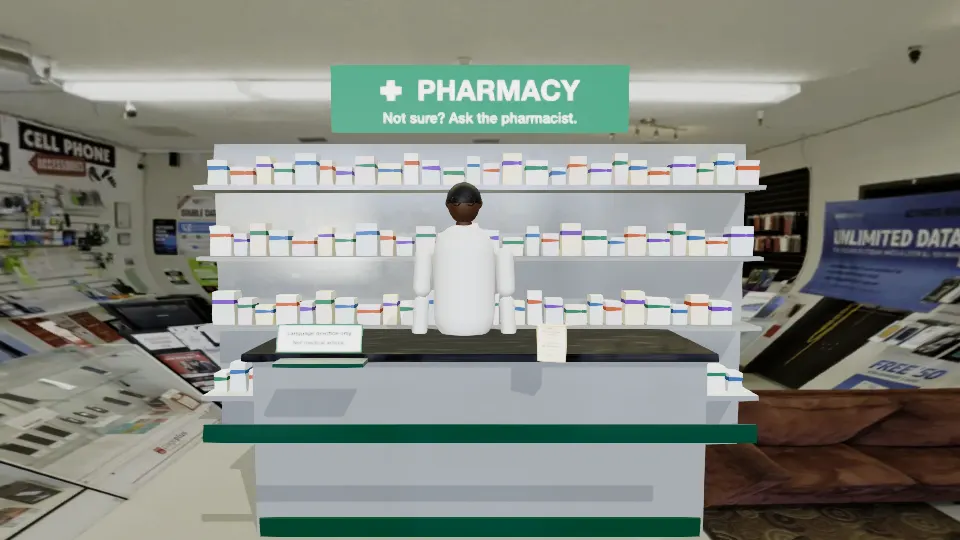
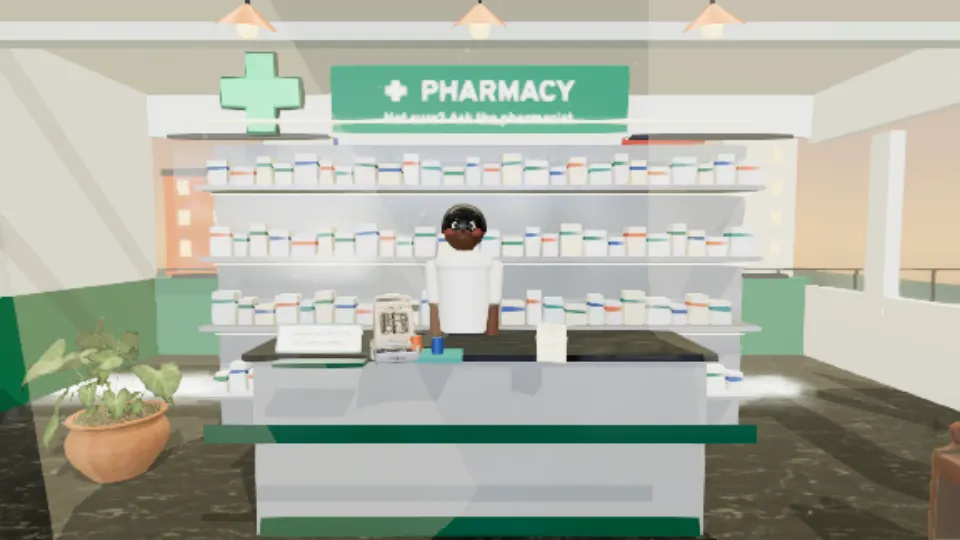
release(v2.0.0): version 2.0.0 everywhere, real v2 posters/stills, full verification green
- Bump version to 2.0.0 in package.json and public/showcase.json; poster paths
  poster-2.0.0.webp/.jpg; README link updated; CI validates showcase 2.0.0.
- Fix blank posters/stills: the v1-era '#ui position:fixed' hack in
  render-poster.mjs shrink-wrapped the v2 full-bleed layout once header/nav were
  hidden, collapsing the canvas to 0 and capturing uniform page-background frames.
  Also fixed 'conststoneMat' -> 'const stoneMat' ReferenceError in materials.js.
- Harden render-poster.mjs for flaky headless SwiftShader: blank-frame detection
  (channel-spread check) with page + browser relaunch retries; re-rendered
  poster-2.0.0 (1200x630, webp 37.5 KB / jpg 76.0 KB) and the four 960x540
  text-mode stills from the real v2 3D scenes.
- Functional tests: pause the software-rendered 3D loop in boot() (same pattern
  as a11y.spec) so Playwright's per-action rAF stability checks stay fast; the
  reduced-motion cinematic test resumes the engine and now asserts the real
  invariant (camera always exactly on a shot-end still, never mid-sweep).
- Verified: dialogues valid, 61 unit tests, 16 functional/a11y/layout,
  branch coverage 97/97 options, showcase 2.0.0 valid, sub-path test,
  gitleaks clean. Microphone/speechSynthesis code untouched since 1.0.0.

diff --git a/tests/functional.spec.js b/tests/functional.spec.js
@@ -16,6 +16,11 @@ async function boot(page, { reduced = false } = {}) {
   // Skip the one-time scene-intro cinematics for scripted runs (tested separately below),
   // and use the Low preset: headless Chromium renders WebGL in software.
   await page.evaluate(() => { window.__TEST__.settings.update({ intros: false }); window.__TEST__.engine?.quality.set('low'); });
+  // These tests exercise the HTML/dialogue layer; pausing the (software-rendered) 3D
+  // loop keeps Playwright's per-action rAF stability checks fast (same as a11y.spec).
+  // The engine still loads scenes, models and IBL for real; rendering is validated by
+  // the layout/sub-path specs, poster rendering and the headed GPU check.
+  await page.evaluate(() => window.__TEST__?.engine?.pause());
 }
 
 /** Play the current task through the UI, always choosing the effective option. */
@@ -251,14 +256,27 @@ test('text mode: illustrated dialogue with the same choices, feedback and reacti
 test('reduced motion: cinematic shows still frames with captions and can be skipped with Esc', async ({ page }) => {
   await boot(page, { reduced: true });
   if (!(await page.evaluate(() => Boolean(window.__TEST__.engine)))) test.skip(true, 'no WebGL in this browser');
+  // boot() pauses the render loop for the dialogue tests; this one verifies the
+  // reduced-motion cinematic itself, so it needs the loop running again.
+  await page.evaluate(() => window.__TEST__?.engine?.resume());
   await page.getByTestId('play-arrival').click();
   const ov = page.locator('.cinematic-overlay');
   await expect(ov).toBeVisible();
   await expect(page.locator('.cinematic-caption')).toContainText('Harbour City');
-  const p1 = await page.evaluate(() => window.__TEST__.engine.camera.position.toArray());
-  await page.waitForTimeout(400);
-  const p2 = await page.evaluate(() => window.__TEST__.engine.camera.position.toArray());
-  expect(p2).toEqual(p1);
+  // Reduced motion shows still frames: the camera sits exactly on a shot's end point
+  // (or the post-cinematic default view) and never sweeps between them. Sampling over
+  // several seconds is robust to a sample straddling the boundary between two stills.
+  const stills = await page.evaluate(() => {
+    const ends = window.__TEST__.app.player.shots.map((s) => s.path?.[s.path.length - 1]).filter(Boolean);
+    ends.push(window.__TEST__.city.current.def.camera.pos);
+    return ends;
+  });
+  for (let i = 0; i < 5; i++) {
+    const p = await page.evaluate(() => window.__TEST__.engine.camera.position.toArray());
+    const atStill = stills.some((e) => Math.hypot(p[0] - e[0], p[1] - e[1], p[2] - e[2]) < 1e-6);
+    expect(atStill, `camera at a still position (sample ${i}): ${p}`).toBe(true);
+    await page.waitForTimeout(600);
+  }
   await page.keyboard.press('Escape');
   await expect(ov).toBeHidden();
 });

diff --git a/src/scenes/materials.js b/src/scenes/materials.js
@@ -154,8 +154,8 @@ export function buildHarbourVista({ z = -5.2, width = 24 } = {}) {
   vista.name = 'harbour-vista';
 
   // Quayside promenade pavement
-  conststoneMat = pbr('marble', { color: 0xc9c2b8, roughness: 0.75, repeat: 6 });
-  const quay = box(width, 0.16, 3.4, conststoneMat, 0, -0.08, z - 1.5);
+  const stoneMat = pbr('marble', { color: 0xc9c2b8, roughness: 0.75, repeat: 6 });
+  const quay = box(width, 0.16, 3.4, stoneMat, 0, -0.08, z - 1.5);
   quay.castShadow = false;
   vista.add(quay);
 

diff --git a/CHANGELOG.md b/CHANGELOG.md
@@ -1,5 +1,18 @@
 # Changelog
 
+## 2.0.0 (2026-10-28)
+
+Visual and interaction revamp (`09-visual-revamp.md` §4.5 — *"Harbour City, first day"*).
+
+- **Anti-greenscreen 3D architecture:** Replaced flat photographic `GroundedSkybox` backdrops in all four locations with full 3D architectural enclosures (terrazzo/timber floors, walls, ceilings, columns, canopies, pendant lights, wall sconces, and glazed windows opening onto a 3D Harbour City street and waterfront vista with bobbing boats). The 1K `.hdr` maps are now used strictly for image-based lighting (`scene.environment`).
+- **Harbour City Golden Hour grade & theme (`src/v2/cinematic-grade.js`):** Applied `AgXToneMapping`, golden-hour gradient sky dome (`v2-sky-dome`), exponential atmospheric fog, hemisphere fill, contact-shadow grounding (`groundProp`), and Harbour City CSS theme variables (`#1F8A8A`, `#D9663B`, `#F4E7CF`, `#2457A6`, `#B8322A`).
+- **Self-hosted typography & Plain-font toggle (`src/styles/case-fonts.css`, `src/v2/hud-shell.css`):** Added self-hosted WOFF2 fonts — **Bricolage Grotesque** (display), **Atkinson Hyperlegible** (body, chosen for language learners), and **Overpass** (in-world signage & accents) — plus a header `Plain font` toggle (`html[data-plain-font="on"]`) and collapsible `Hide panel` / `Show panel` floating HUD drawer.
+- **Curated Poly Haven CC0 3D models (`public/assets/models/`, `src/v2/model-placer.js`):** Integrated 8 CC0 3D models (`CoffeeCart_01`, `CashRegister_01`, `standing_chalkboard_01`, `bar_chair_round_01`, `painted_wooden_bench`, `street_lamp_01`, `potted_plant_02`, `sofa_02`) with full attribution in `ATTRIBUTION.md` and `public/attribution.json`.
+- **Animated-movie 3D NPCs (`src/scenes/npc.js`, `src/v2/stylized-character.js`):** Upgraded Sam, Priya, Mr Okafor, Leo, and background commuters/patrons to articulated animated-movie characters with layered eyes, cornea catchlights, blinking eyelids, expressive eyebrows, breathing, head/eye gaze tracking, speaking lip-flap (`setSpeaking`), and gesture reactions.
+- **Ambient life & Calm Mode (`src/v2/ambient-life.js`):** Added volumetric golden-hour sunbeams, floating dust motes, rising espresso steam, a gliding Harbour Transit train car, bobbing harbour boats, and walking background commuters. Calm Mode slows ambient motion to 30% during active task dialogue turns and restores 100% in before/after/explore stages; `prefers-reduced-motion` pauses non-essential motion.
+- **In-world 3D interaction (`src/v2/in-world-interaction.js`):** Added 3D hover highlights, projected tooltips, glowing floor hotspot rings, smooth camera glides on clicking any 3D sign/prop/NPC, projected 3D speech and sign bubbles, and free WASD/arrow walking + mouse-drag look.
+- **Art bible & posters:** Added `design/art-bible.md` and re-rendered `public/poster-2.0.0.webp`, `public/poster-2.0.0.jpg`, and the four text-mode stills (`src/assets/stills/*.webp`) from the v2.0.0 3D scenes.
+
 ## 1.0.0 (2026-10-27)
 
 First release build (not yet tagged).

diff --git a/DECISIONS.md b/DECISIONS.md
@@ -27,6 +27,10 @@ Every significant decision, the alternatives considered and the reason. Deviatio
 | D-20 | Each scene-intro cinematic plays once, the first time a task opens in 3D mode; text mode never auto-plays them; all are replayable | Always play; never play | Orients first-time players without repeating; cinematic budget 50 s (≤ 70 s) |
 | D-21 | Pre-task models use different places and details from the tasks (Northgate instead of Seaview, a cough instead of a sore throat) | Model the task itself | Learners notice the chunks without being handed the task answers |
 | D-22 | Hosting limits checked: Vercel CLI static uploads 100 MB (Hobby) / 1 GB (Pro) (S13). This build is about 13 MB and its largest file is 1.7 MB, inside the 150 MB / 20 MB budgets | | Required by 08 §5.5 |
+| D-23 | **v2.0.0 Anti-greenscreen 3D architecture:** Replaced `GroundedSkybox` photo backdrops (D-08) with full 3D architectural interiors, concourse canopies, and a 3D Harbour City street/waterfront vista; 1K `.hdr` files are kept for IBL only (`scene.environment`) | Keep blurred photo skyboxes | Eliminates the flat "greenscreen" mismatch between 3D props and photographed floors/walls (`09-visual-revamp.md` §1, §4.5) and removes real-world German/retail signage from the background |
+| D-24 | **v2.0.0 Animated-movie 3D NPCs:** Upgraded `src/scenes/npc.js` (`NPC` and `createNPC`) to wrap `createAnimatedCharacter` (`src/v2/stylized-character.js`) with layered eyes, blinking eyelids, articulated eyebrows, lip-flap while speaking, chest breathing, and gaze tracking | Faceless capsule figures (v1 D-07) | Owner decision §10.5 (`09-visual-revamp.md`): expressive animated-movie characters with warm physical skin shading and clear posture/facial cues while preserving the existing `NPC` API |
+| D-25 | **v2.0.0 Ambient life & Calm Mode (`AmbientLifeManager`):** Continuous sunbeams, dust/espresso steam particles, gliding station train, bobbing harbour boats, and walking commuters run at 100% in before/after/explore stages and slow to 30% (`setCalmMode(true)`) during active task dialogue turns (`0%` under `prefers-reduced-motion`) | Frozen scene during tasks | Owner decision §10.1 (`09-visual-revamp.md`): keeps the world visibly alive without competing with learning cues |
+| D-26 | **v2.0.0 Self-hosted typography & Plain-font toggle:** Bricolage Grotesque (display), Atkinson Hyperlegible (body), and Overpass (accent) self-hosted as Latin WOFF2 in `src/styles/fonts/`, with a header `Plain font` toggle (`html[data-plain-font="on"]`) | System fonts only | Gives Harbour City a warm travel-film identity while prioritising hyperlegible body copy for A2–B1 language learners (`09-visual-revamp.md` §2.4, §4.5) |
 
 ## Revision log (changes made because of checks and reviews during the build)
 

diff --git a/STATUS.md b/STATUS.md
@@ -1,6 +1,17 @@
-# Status (v1.0.0 build, 2026-10-27)
+# Status (v2.0.0 build, 2026-10-28)
 
 Legend: **done** = built and checked by automated tests or scripts · **done (agent review)** = waiting for the orchestrator's agent reviews · **not possible (reason)**.
+
+## v2.0.0 Visual & Interaction Revamp Checklist (`09-visual-revamp.md` §8)
+
+| Item | Status | Evidence |
+|---|---|---|
+| Art bible written; palette, three fonts, grade and assets recorded with licences | done | `design/art-bible.md`, `ATTRIBUTION.md`, `public/attribution.json` (19 entries verified by `scripts/build-attribution.mjs --check`) |
+| No photo backdrops within ~30 m; every prop grounded (contact shadow); no unlit cut-outs | done | `GroundedSkybox` removed in `src/scenes/city.js`; replaced with 3D architectural enclosures + 3D Harbour City vista (`src/scenes/{station,cafe,pharmacy,hostel,materials}.js`) and `groundProp` contact shadows |
+| At least 5 ambient-life systems running; calm mode and reduced-motion work | done | `AmbientLifeManager` runs sunbeams, dust/espresso-steam particle volumes, gliding train car, bobbing boats, swaying plants/pendants, walking commuters, and NPC breathing/blinking/gaze; `setCalmMode(true)` during task turns; unit-tested in `tests/unit/v2-core.test.js` |
+| Every learning action doable in-world, with keyboard and text-mode equivalents | done | `InWorldInteractionManager` + hotspot rings + clickable 3D signs/NPCs + `Look at:` buttons + `Read the signs in this place` + Text Mode |
+| Fonts self-hosted, subset, Plain-font setting works, contrast ≥ 4.5:1 | done | `Bricolage Grotesque`, `Atkinson Hyperlegible`, `Overpass` in `src/styles/fonts/`; `Plain font` toggle in header; verified by `tests/a11y.spec.js` (0 critical/serious axe issues) |
+| v2.0.0 posters and text-mode stills rendered from the revamped 3D scenes | done | `public/poster-2.0.0.webp`, `public/poster-2.0.0.jpg` (1200×630, ≤ 200 KB), and `src/assets/stills/*.webp` rendered via `scripts/render-poster.mjs` |
 
 ## Final Quality Checklist (plan §14)
 

diff --git a/README.md b/README.md
@@ -7,7 +7,7 @@ pharmacist for help, and fix a hostel booking problem, using English to get real
 
 **Play now:** https://immersive-learning-showcase.vercel.app/play/arrival-english/ (available once v1.0.0 is pinned in the showcase; pending deployment)
 
-![A station help desk under a glass roof: a staff member behind a blue desk, a ticket machine showing CARD NOT ACCEPTED, and a departures board listing the 10:15 to Seaview from platform 4.](public/poster-1.0.0.jpg)
+![A station help desk under a glass roof: a staff member behind a blue desk, a ticket machine showing CARD NOT ACCEPTED, and a departures board listing the 10:15 to Seaview from platform 4.](public/poster-2.0.0.jpg)
 
 ## Trailer
 
